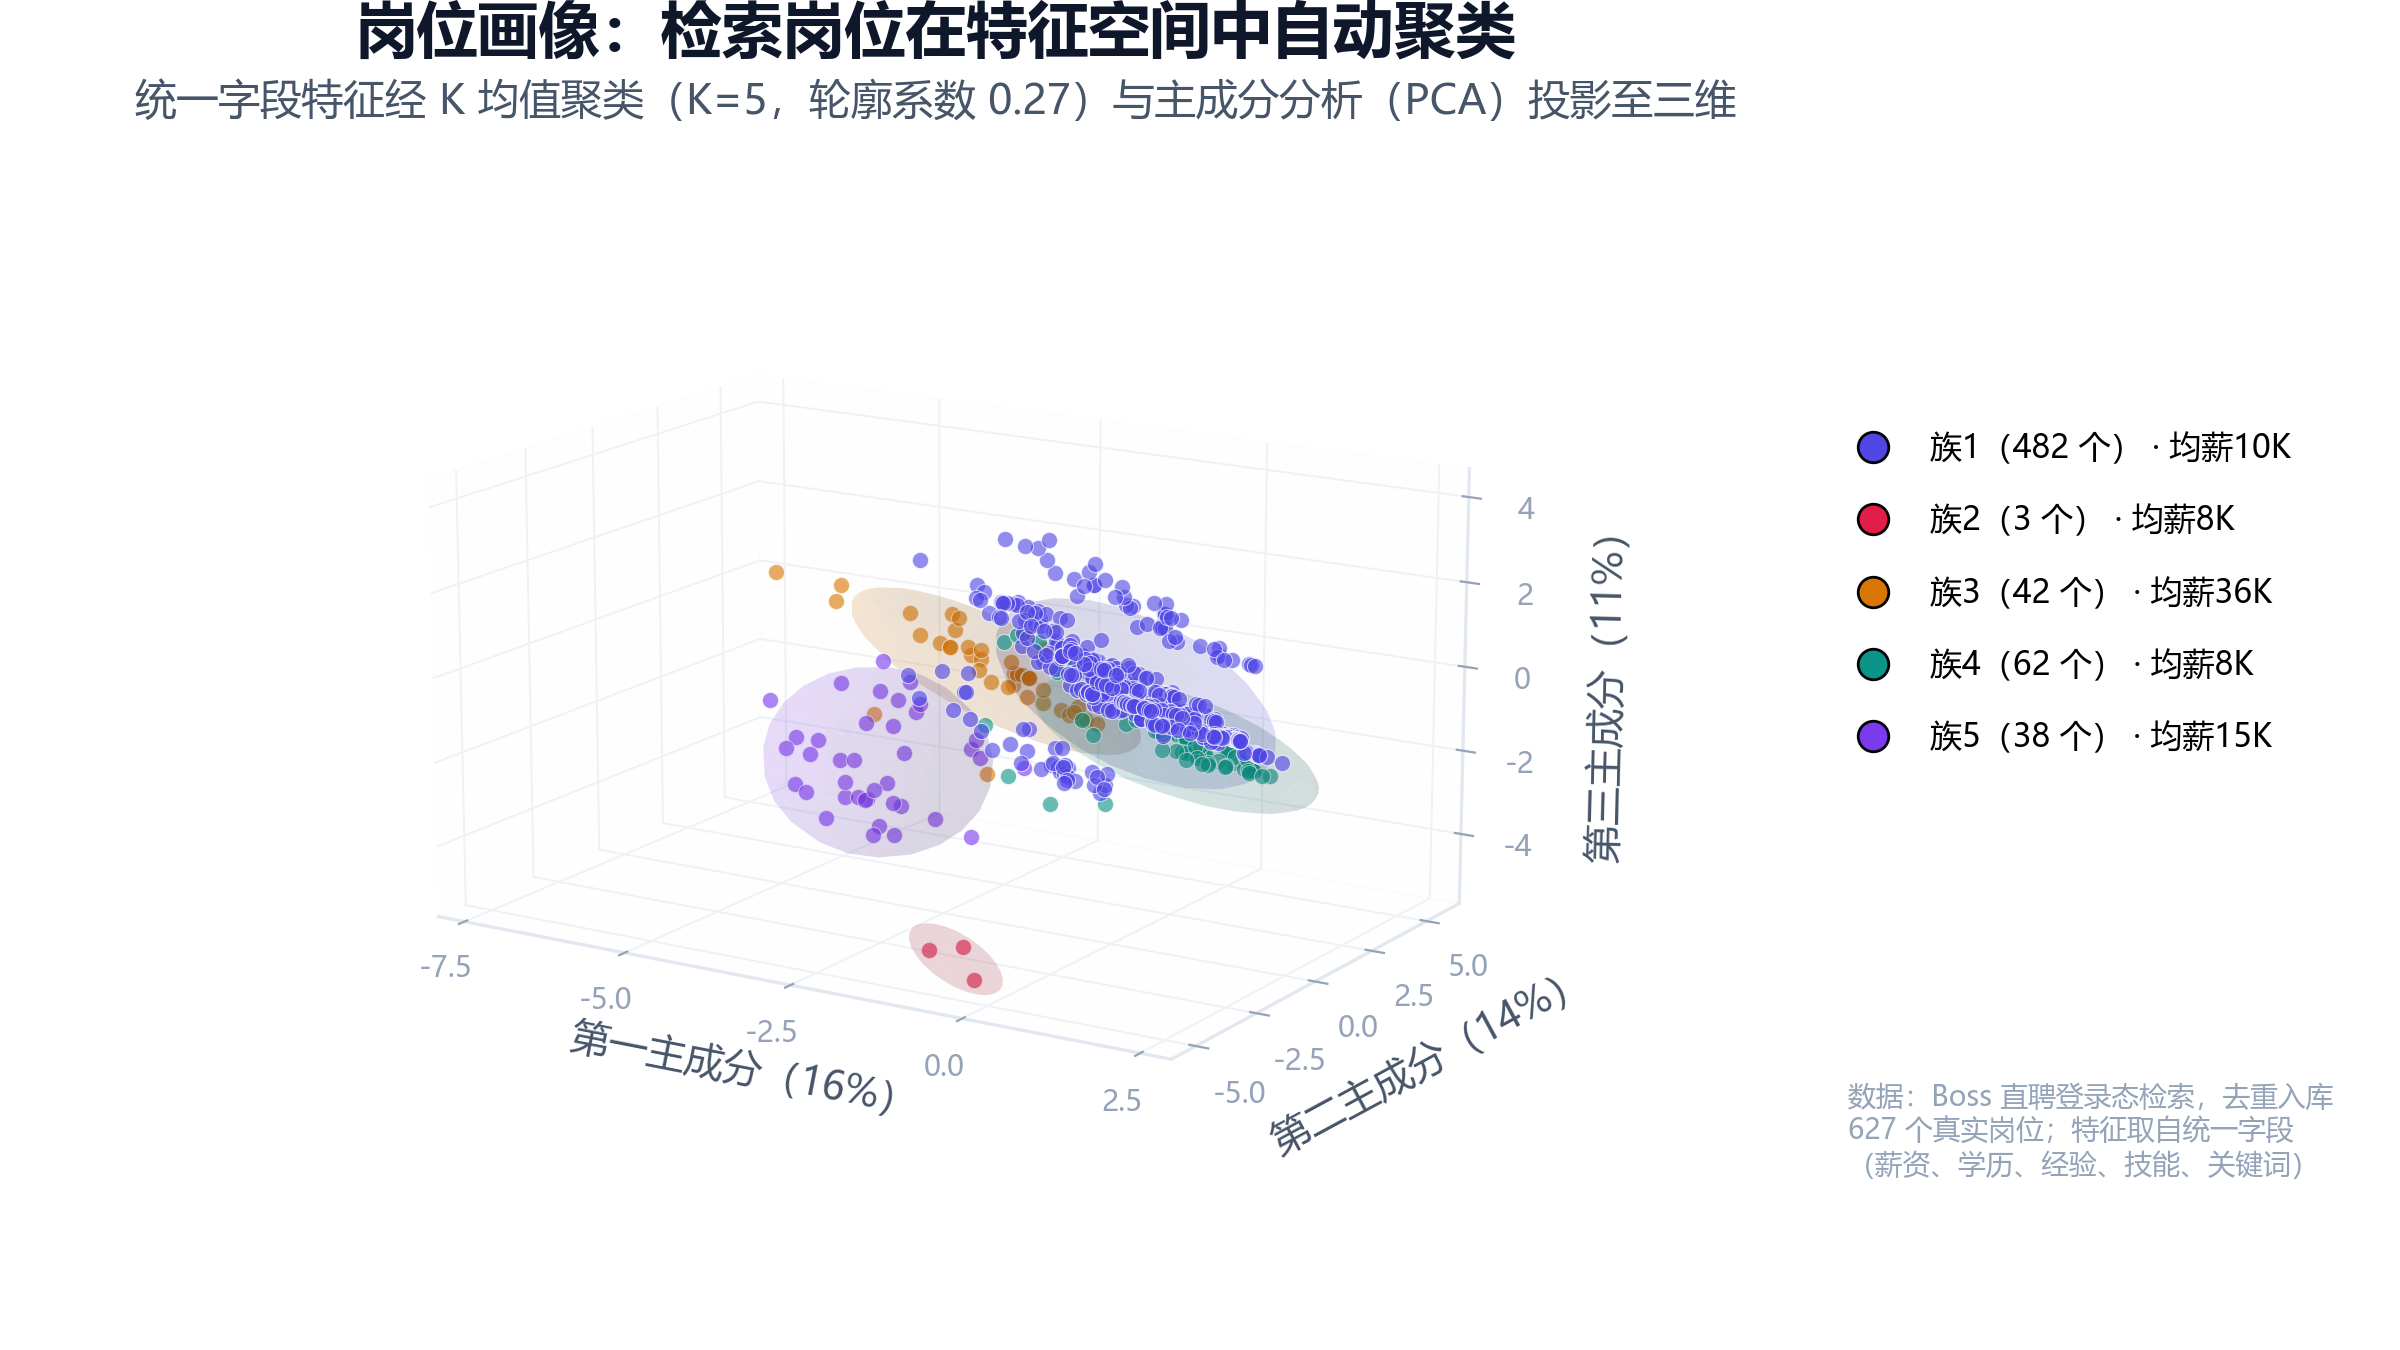
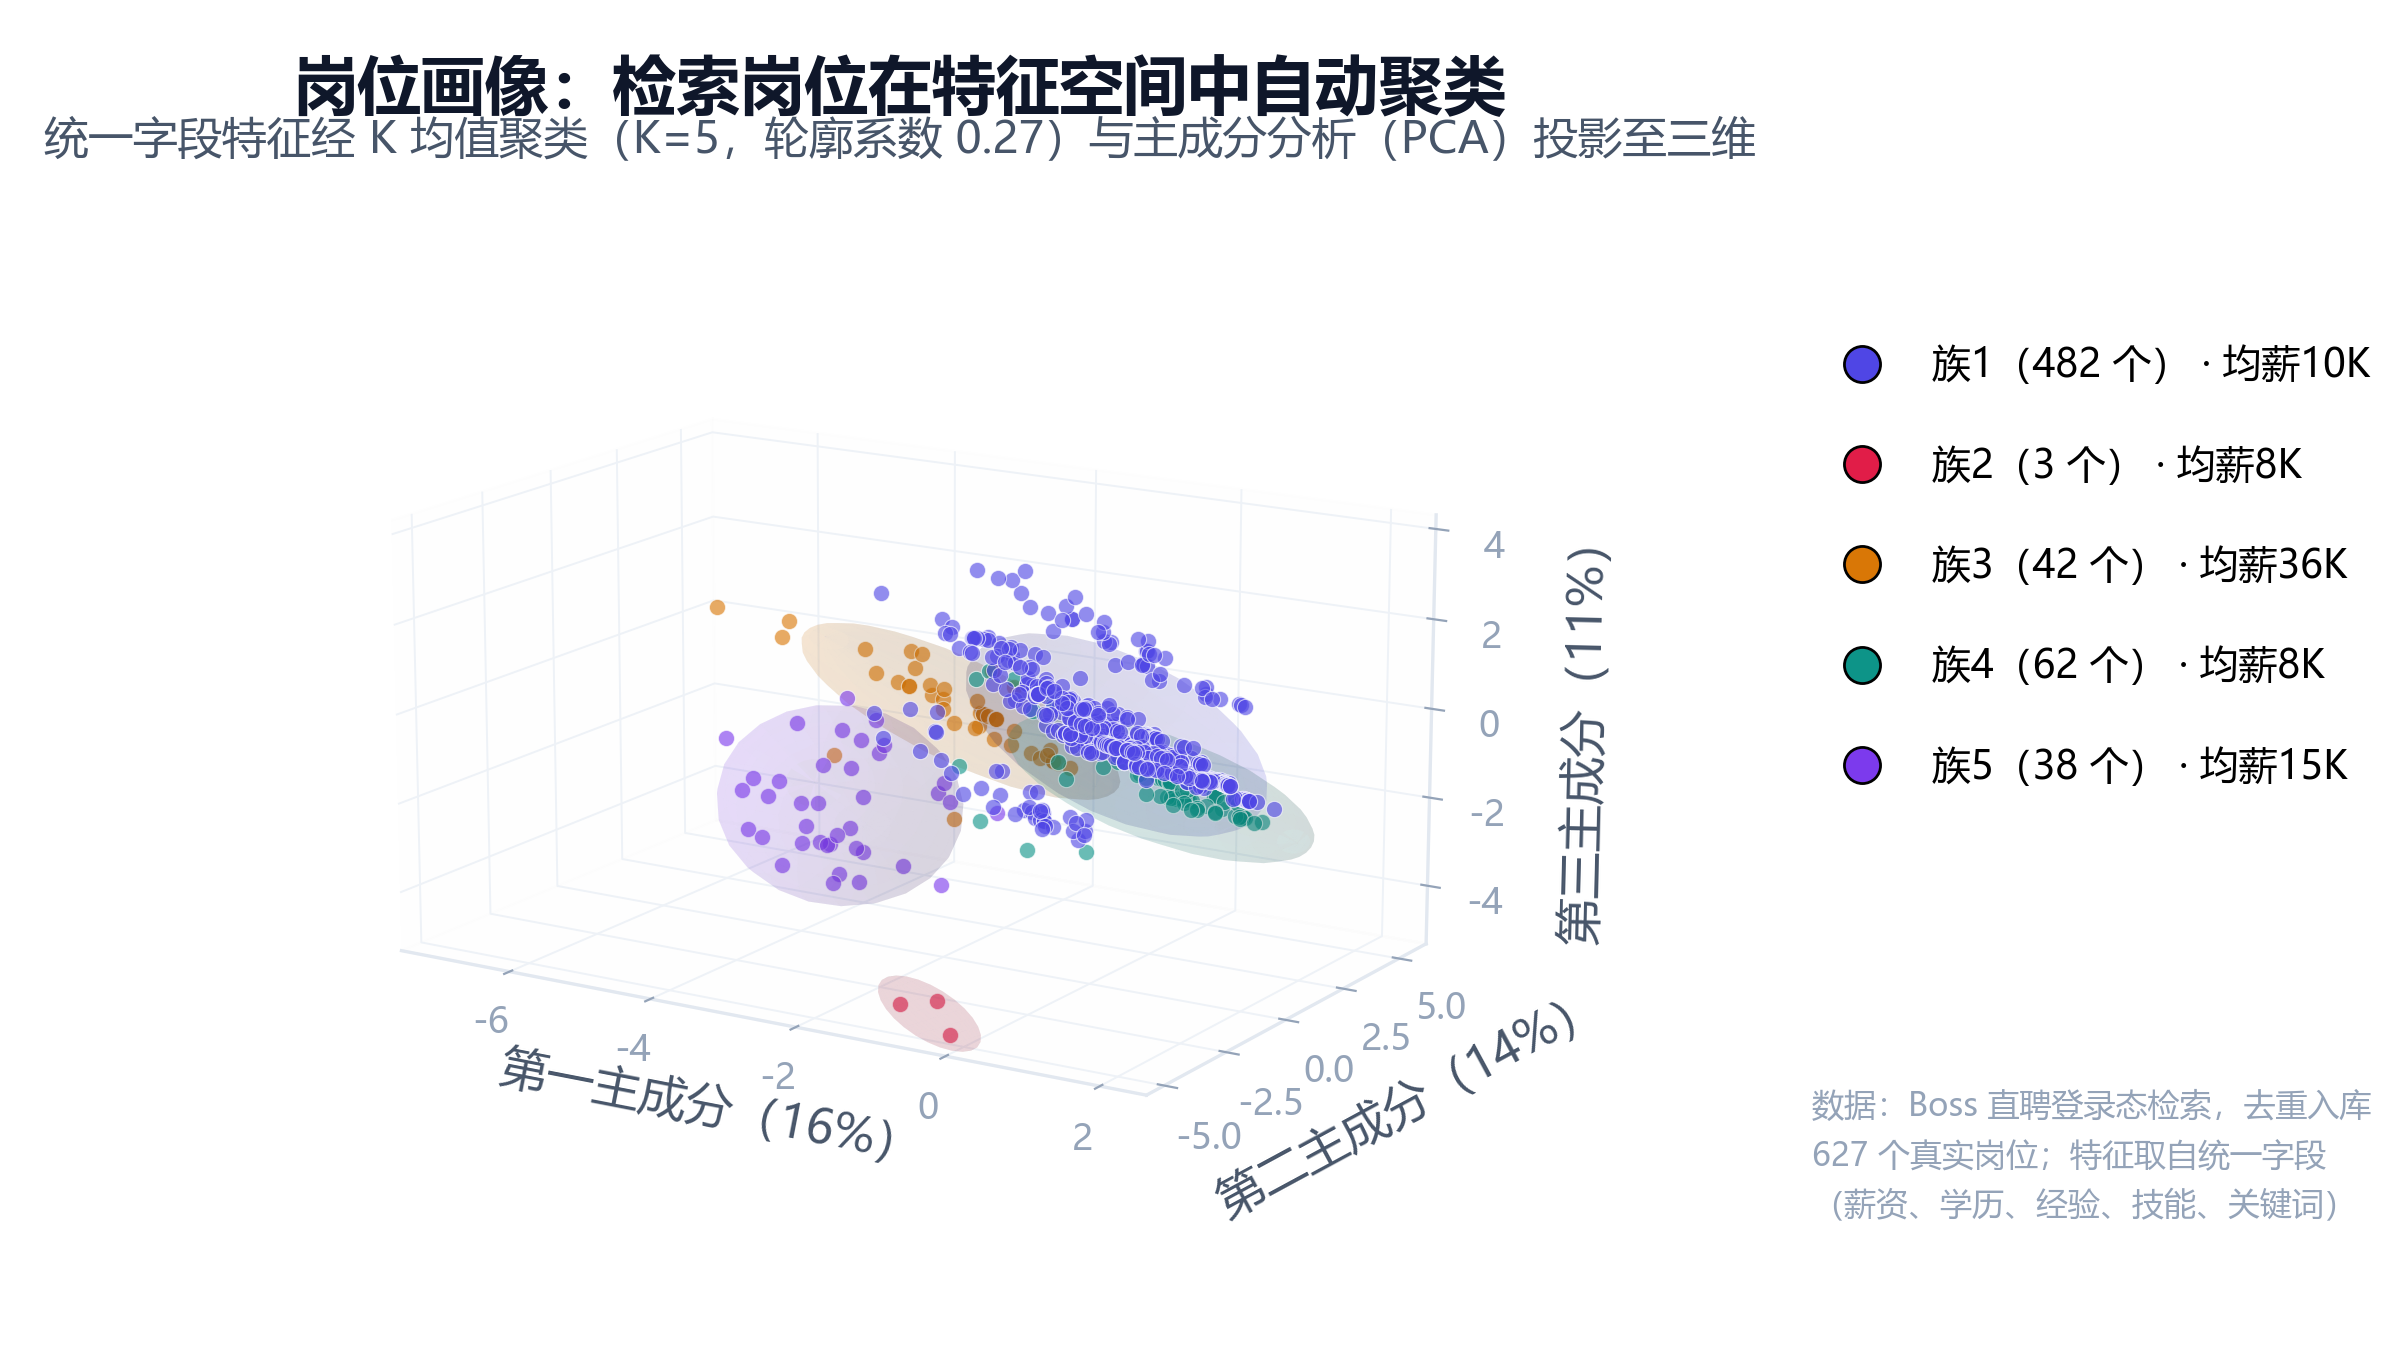
docs(defense): fig5 字号放大、构图紧凑，坐标轴范围按点云实际延展自适应

diff --git a/_defense_figs.py b/_defense_figs.py
@@ -372,7 +372,7 @@ def fig5():
 
     PALETTE = ["#4F46E5", "#E11D48", "#D97706", "#0D9488", "#7C3AED"]
     fig = plt.figure(figsize=(12, 6.75), dpi=200)
-    ax = fig.add_axes([0.04, 0.07, 0.70, 0.81], projection="3d")
+    ax = fig.add_axes([0.02, 0.04, 0.71, 0.81], projection="3d")
 
     for j in range(best_k):
         P = proj[lab == j]
@@ -395,24 +395,24 @@ def fig5():
         ax.scatter(P[:, 0], P[:, 1], P[:, 2], s=34, c=col, alpha=0.62,
                    edgecolors="white", linewidths=0.4, depthshade=False)
 
-    pad = 0.06 * max(np.ptp(proj[:, 0]), np.ptp(proj[:, 1]), np.ptp(proj[:, 2]))
-    ax.set_xlim(proj[:, 0].min() - pad, proj[:, 0].max() + pad)
-    ax.set_ylim(proj[:, 1].min() - pad, proj[:, 1].max() + pad)
-    ax.set_zlim(proj[:, 2].min() - pad, proj[:, 2].max() + pad)
+    pad = 0.035 * np.maximum(np.ptp(proj, axis=0), 0.5)
+    ax.set_xlim(proj[:, 0].min() - pad[0], proj[:, 0].max() + pad[0])
+    ax.set_ylim(proj[:, 1].min() - pad[1], proj[:, 1].max() + pad[1])
+    ax.set_zlim(proj[:, 2].min() - pad[2], proj[:, 2].max() + pad[2])
     try:
-        ax.set_box_aspect((1.6, 1.1, 0.85))
+        ax.set_box_aspect((1.75, 1.15, 0.9))
     except Exception:
         pass
-    ax.set_xlabel("第一主成分（%.0f%%）" % (var[0] * 100), color=SLATE, labelpad=8, fontsize=14)
-    ax.set_ylabel("第二主成分（%.0f%%）" % (var[1] * 100), color=SLATE, labelpad=8, fontsize=14)
-    ax.set_zlabel("第三主成分（%.0f%%）" % (var[2] * 100), color=SLATE, labelpad=8, fontsize=14)
-    ax.tick_params(labelsize=10.5, colors=MUTED)
+    ax.set_xlabel("第一主成分（%.0f%%）" % (var[0] * 100), color=SLATE, labelpad=10, fontsize=17)
+    ax.set_ylabel("第二主成分（%.0f%%）" % (var[1] * 100), color=SLATE, labelpad=10, fontsize=17)
+    ax.set_zlabel("第三主成分（%.0f%%）" % (var[2] * 100), color=SLATE, labelpad=10, fontsize=17)
+    ax.tick_params(labelsize=13, colors=MUTED)
     for _axis in (ax.xaxis, ax.yaxis, ax.zaxis):
         _axis.set_major_locator(MaxNLocator(5))
     _titles(ax, "岗位画像：检索岗位在特征空间中自动聚类",
-            "统一字段特征经 K 均值聚类（K=%d，轮廓系数 %.2f）与主成分分析（PCA）投影至三维"
-            % (best_k, best_sil),
-            pad=40)
+            "统一字段特征经 K 均值聚类（K=5，轮廓系数 %.2f）与主成分分析（PCA）投影至三维"
+            % best_sil,
+            main_size=23, sub_size=16, pad=34)
     ax.view_init(elev=15, azim=-58)
     for pane in (ax.xaxis, ax.yaxis, ax.zaxis):
         pane.pane.set_alpha(0.02)
@@ -425,13 +425,13 @@ def fig5():
         sal_vals = [m[2] for m in mem if not np.isnan(m[2])]
         sal_txt = " · 均薪%.0fK" % (sum(sal_vals) / len(sal_vals)) if sal_vals else ""
         handles.append(Line2D([0], [0], marker="o", color="none",
-                              markerfacecolor=PALETTE[j % len(PALETTE)], markersize=11,
+                              markerfacecolor=PALETTE[j % len(PALETTE)], markersize=13,
                               label="族%d（%d 个）%s" % (j + 1, cnt, sal_txt)))
-    fig.legend(handles=handles, loc="center left", bbox_to_anchor=(0.755, 0.56),
-               frameon=False, fontsize=11.5, labelspacing=1.2)
-    fig.text(0.77, 0.13,
+    fig.legend(handles=handles, loc="center left", bbox_to_anchor=(0.745, 0.58),
+               frameon=False, fontsize=14, labelspacing=1.5)
+    fig.text(0.755, 0.10,
              "数据：Boss 直聘登录态检索，去重入库\n%d 个真实岗位；特征取自统一字段\n（薪资、学历、经验、技能、关键词）" % n,
-             fontsize=10, color=MUTED)
+             fontsize=11.5, color=MUTED, linespacing=1.6)
     fig.savefig(os.path.join(OUT, "fig5_cluster3d.png"))
     plt.close(fig)
     print("saved fig5 (K=%d, silhouette=%.2f, n=%d)" % (best_k, best_sil, n))
